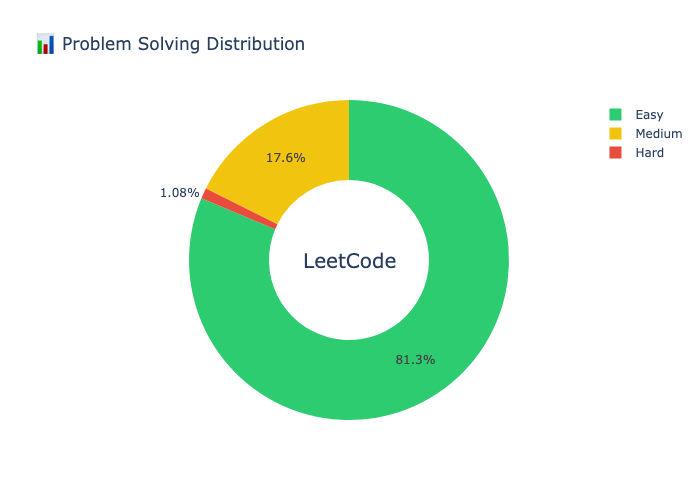
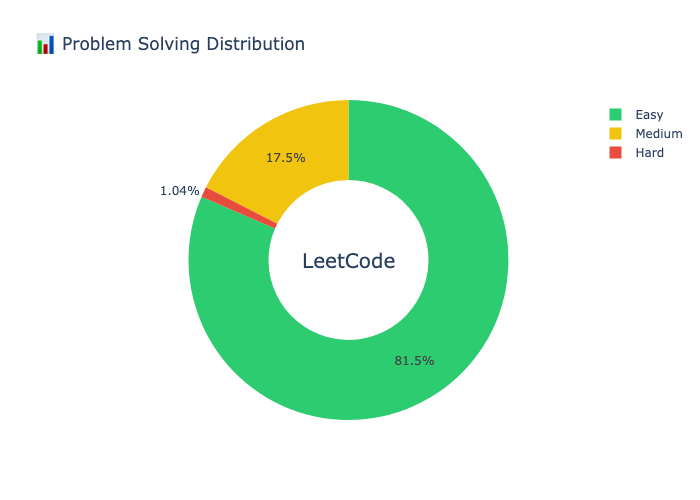
Updated code

diff --git a/README.md b/README.md
@@ -11,18 +11,18 @@ Welcome to my repository, where I document my journey of solving coding challeng
 
 ## 🚀 Contest Performance  
 - **Contest Rating**: N/A  
-- **Global Ranking**: 277653 / N/A  
+- **Global Ranking**: 266892 / N/A  
 - **Contests Attended**: 1  
 - **Top Rank Achieved**: N/A%  
 
 ---
 
 ## 💡 Problem-Solving Stats  
-- **Acceptance Rate**: 36.34%  
+- **Acceptance Rate**: 37.19%  
 |----------------|---------------------|---------------------|----------------|  
-| 🟢 Easy        | 300 / 892          | 36.34%              |
-| 🟡 Medium      | 65 / 1907         | 36.34%             |
-| 🔴 Hard        | 4 / 863            | 36.34%             |
+| 🟢 Easy        | 312 / 896          | 37.19%              |
+| 🟡 Medium      | 67 / 1914         | 37.19%             |
+| 🔴 Hard        | 4 / 867            | 37.19%             |
 
 ---
 
@@ -70,26 +70,26 @@ Welcome to my repository, where I document my journey of solving coding challeng
 ---
 
 ## 🚀 Contest Performance  
-- **Contest Rating**: 1,384 
-- **Global Ranking**: 659,677/746,163 
+- **Contest Rating**: N/A  
+- **Global Ranking**: 266892 / N/A  
 - **Contests Attended**: 3  
-- **Top Rank Achieved**: 88.59%  
+- **Top Rank Achieved**: N/A%  
 
 ---
 
 ## 💡 Problem-Solving Stats  
-- **Acceptance Rate**: 36.34%  
+- **Acceptance Rate**: 37.19%  
 
 | Difficulty | Solved / Total | Acceptance Rate |
 |------------|----------------|-----------------|
-| 🟢 Easy        | 300 / 892          | 99.32%              |
-| 🟡 Medium      | 65 / 1907         | 78.59%             |
-| 🔴 Hard        | 4 / 863            | 40.35%             |
+| 🟢 Easy        | 312 / 896          | 37.19%              |
+| 🟡 Medium      | 67 / 1914         | 37.19%             |
+| 🔴 Hard        | 4 / 867            | 37.19%             |
 
 --
 
 ## 🔥 Submission Stats  
-- **Total Submissions**: 1.2k  
+- **Total Submissions**: N/A  
 - **Attempts**:  
   - 🟢 Easy: 300  
   - 🟡 Medium: 65  
@@ -102,8 +102,8 @@ Welcome to my repository, where I document my journey of solving coding challeng
 ---
 
 ## 🏅 Achievements and Badges  
-- **Total Badges**: 4  
-- **Most Recent Badge**: 100 Days Badge 2025  
+- **Total Badges**: N/A  
+- **Most Recent Badge**: N/A  
 
 ---
 
